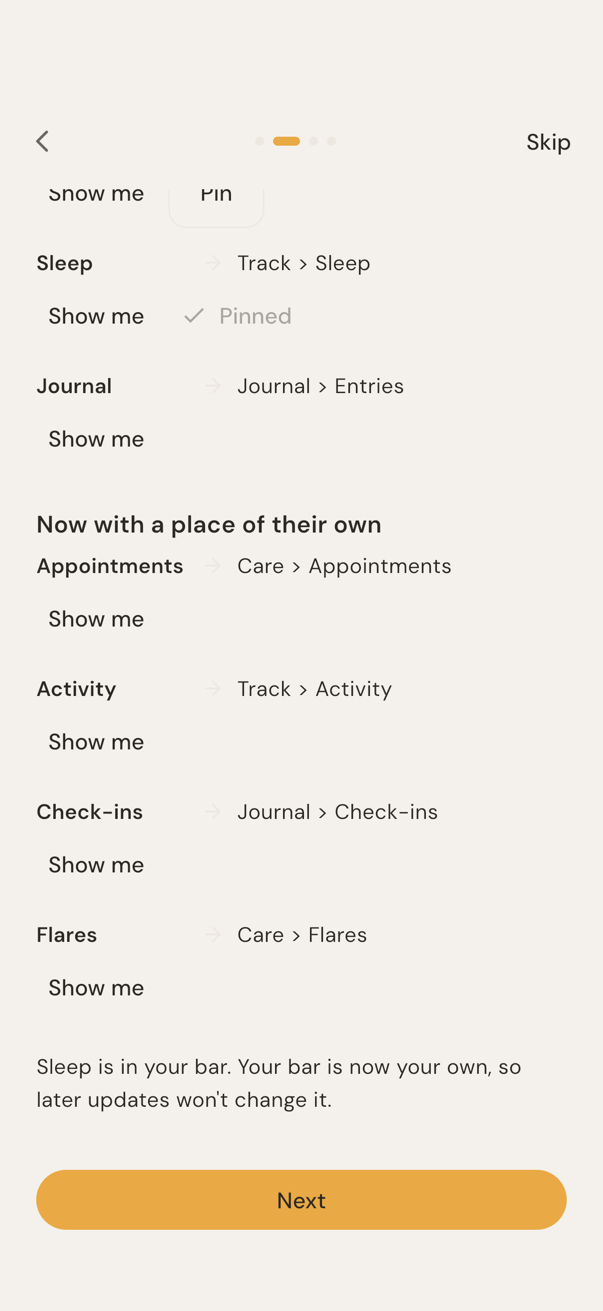
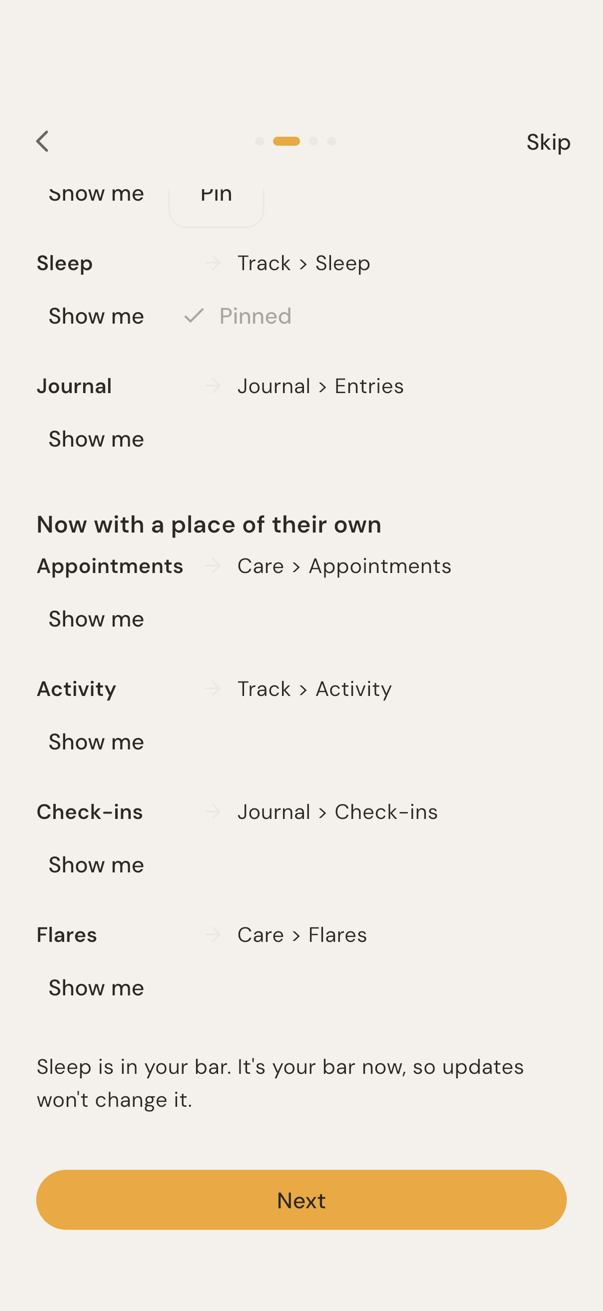
fix(guides): copy review (#145)
- 'Set it up myself' opens Settings scrolled to Your layout
  (/settings/layout), as it says.
- Moved rows are read without '>': 'Meds, now in Care, Medications tab'.
- Step 1 says 'Nothing has been removed', the card's words.
- Pin: 'Sleep is in your bar. It's your bar now, so updates won't change
  it.' Scenario verified.

Changed region(s): [[0.3881, 0.7933, 0.8657, 0.8543], [0.0597, 0.8238, 0.3582, 0.8543]]

diff --git a/lib/features/settings/screens/settings_screen.dart b/lib/features/settings/screens/settings_screen.dart
@@ -1,3 +1,4 @@
+import 'package:flutter/rendering.dart' show ScrollCacheExtent;
 import 'package:flutter/material.dart';
 import 'package:flutter_riverpod/flutter_riverpod.dart';
 import 'package:url_launcher/url_launcher.dart';
@@ -12,6 +13,37 @@ import 'package:health_flare/data/database/import_service.dart';
 import 'package:health_flare/features/settings/widgets/app_version_tile.dart';
 import 'package:health_flare/features/whats_new/widgets/whats_new_settings_tiles.dart';
 import 'package:health_flare/features/shell/widgets/hf_app_bar.dart';
+
+/// Scrolls [child] to the top of the screen once, after the first frame.
+class _ScrollIntoView extends StatefulWidget {
+  const _ScrollIntoView({required this.enabled, required this.child});
+
+  final bool enabled;
+  final Widget child;
+
+  @override
+  State<_ScrollIntoView> createState() => _ScrollIntoViewState();
+}
+
+class _ScrollIntoViewState extends State<_ScrollIntoView> {
+  @override
+  void initState() {
+    super.initState();
+    if (!widget.enabled) return;
+    WidgetsBinding.instance.addPostFrameCallback((_) {
+      if (!mounted) return;
+      Scrollable.ensureVisible(
+        context,
+        duration: MediaQuery.of(context).disableAnimations
+            ? Duration.zero
+            : const Duration(milliseconds: 300),
+      );
+    });
+  }
+
+  @override
+  Widget build(BuildContext context) => widget.child;
+}
 
 // ---------------------------------------------------------------------------
 // Local provider: reads schema version from AppSettings singleton.
@@ -30,7 +62,8 @@ final _schemaVersionProvider = FutureProvider<int>((ref) async {
 class SettingsScreen extends ConsumerWidget {
   const SettingsScreen({super.key, this.section});
 
-  /// Opens scrolled to a section: `layout` is Your layout. TODO(#145).
+  /// Opens scrolled to a section: `layout` is Your layout (the release
+  /// guide's "Set it up myself", #145).
   final String? section;
 
   @override
@@ -41,6 +74,11 @@ class SettingsScreen extends ConsumerWidget {
         showSettingsButton: false,
       ),
       body: ListView(
+        // Builds the whole (short) screen, so a section opened by name is
+        // there to scroll to.
+        scrollCacheExtent: section == null
+            ? null
+            : const ScrollCacheExtent.pixels(10000),
         children: [
           // ── Privacy (#100, #101): renders nothing on desktop and web ──────
           const PrivacySettingsSection(),
@@ -50,7 +88,10 @@ class SettingsScreen extends ConsumerWidget {
           _BackupTiles(),
 
           // ── Your layout (#142): only with Track and Care on ───────────────
-          const YourLayoutTiles(),
+          _ScrollIntoView(
+            enabled: section == 'layout',
+            child: const YourLayoutTiles(),
+          ),
 
           // ── Updates ───────────────────────────────────────────────────────
           const SettingsSectionHeader(label: 'Updates'),

diff --git a/lib/features/release_guides/screens/release_guide_screen.dart b/lib/features/release_guides/screens/release_guide_screen.dart
@@ -169,9 +169,15 @@ class _ReleaseGuideScreenState extends ConsumerState<ReleaseGuideScreen> {
   Future<void> _done() async {
     await _markSeen();
     if (!mounted) return;
-    final router = GoRouter.of(context);
-    _close();
-    if (_setUpAfter) unawaited(router.push(AppRoutes.settings));
+    if (!_setUpAfter) return _close();
+    // "Set it up myself": Settings, scrolled to Your layout.
+    if (context.canPop()) {
+      final router = GoRouter.of(context);
+      context.pop();
+      unawaited(router.push(AppRoutes.settingsLayout));
+    } else {
+      context.go(AppRoutes.settingsLayout);
+    }
   }
 
   /// "Show me": the guide closes and the screen opens, its bar item
@@ -289,11 +295,7 @@ class _ReleaseGuideScreenState extends ConsumerState<ReleaseGuideScreen> {
         if (slotFor(id) case final s?) (s.icon, s.label),
     ];
     return [
-      Text(
-        'Health Flare is now in four sections. Everything you had is '
-        'still here.',
-        style: tt.bodyLarge,
-      ),
+      Text(_guide.intro, style: tt.bodyLarge),
       const SizedBox(height: 16),
       BarDrawing(
         label: _change.customized ? 'Your bar' : 'The bar you had',
@@ -468,7 +470,7 @@ class _MovedRow extends StatelessWidget {
           );
     return Semantics(
       container: true,
-      label: '${row.was}, now ${row.now}',
+      label: spokenRow(row),
       child: Padding(
         padding: const EdgeInsets.symmetric(vertical: 6),
         child: Column(

diff --git a/test/widget/release_guide_test.dart b/test/widget/release_guide_test.dart
@@ -132,6 +132,11 @@ Widget _app({
               path: AppRoutes.settings,
               builder: (_, _) => const Scaffold(body: Text('Settings screen')),
             ),
+            GoRoute(
+              path: AppRoutes.settingsLayout,
+              builder: (_, _) =>
+                  const Scaffold(body: Text('Settings screen layout')),
+            ),
           ],
         ),
       ),
@@ -481,14 +486,25 @@ void main() {
     testWidgets('"Set it up myself" opens Settings after the guide', (
       tester,
     ) async {
-      await _openGuide(tester, step: 2);
+      // From the card, as in the app: the guide is pushed over the dashboard.
+      await tester.pumpWidget(_app());
+      await tester.pumpAndSettle();
+      await tester.tap(find.text('Show me'));
+      await tester.pumpAndSettle();
+      await _next(tester);
+      await _next(tester);
       await tester.tap(find.text('Set it up myself'));
       await tester.pumpAndSettle();
       await _next(tester);
       await tester.tap(find.widgetWithText(FilledButton, 'Done'));
       await tester.pumpAndSettle();
-      // Settings, opened at Your layout, as the option says.
+      // Settings, opened at Your layout, as the option says; Back returns
+      // to the dashboard, not the guide.
       expect(find.text('Settings screen layout'), findsOneWidget);
+      expect(
+        find.byType(ReleaseGuideScreen, skipOffstage: false),
+        findsNothing,
+      );
     });
   });
 

diff --git a/lib/features/release_guides/release_guide.dart b/lib/features/release_guides/release_guide.dart
@@ -63,7 +63,7 @@ const trackAndCareGuide = ReleaseGuide(
   id: 'track-and-care',
   cardTitle: 'The bottom bar has changed',
   cardBody: 'Meds, Meals and Sleep have moved. Nothing has been removed.',
-  intro: '', // TODO(#145): copy review
+  intro: 'Health Flare is now in four sections. Nothing has been removed.',
   steps: [
     'Four sections now',
     'Where things moved',
@@ -124,5 +124,13 @@ const releaseGuides = <String, ReleaseGuide>{
   'track-and-care': trackAndCareGuide,
 };
 
-/// A row as a screen reader says it. TODO(#145): stub.
-String spokenRow(GuideRow row) => throw UnimplementedError();
+/// A row as a screen reader says it. ">" is for the eye: read aloud it
+/// can come out as "greater than". "Care > Medications" is read "in Care,
+/// Medications tab"; a section alone, "in Track".
+String spokenRow(GuideRow row) {
+  final parts = row.now.split('>').map((p) => p.trim()).toList();
+  final where = parts.length == 1
+      ? parts.single
+      : '${parts.first}, ${parts.skip(1).join(', ')} tab';
+  return '${row.was}, now in $where';
+}

diff --git a/lib/core/router/app_router.dart b/lib/core/router/app_router.dart
@@ -117,6 +117,9 @@ abstract final class AppRoutes {
   static const activityNew = '/activity/new';
   static String activityEdit(int id) => '/activity/$id/edit';
   static const settings = '/settings';
+
+  /// Settings, opened scrolled to Your layout (#145).
+  static const settingsLayout = '/settings/layout';
   static const whatsNew = '/settings/whats-new';
   static const featuresInUse = '/settings/features-in-use';
   static const bottomBar = '/settings/bottom-bar';
@@ -191,6 +194,11 @@ final appRouterProvider = Provider<GoRouter>((ref) {
         path: AppRoutes.settings,
         name: 'settings',
         builder: (context, state) => const SettingsScreen(),
+      ),
+      GoRoute(
+        path: AppRoutes.settingsLayout,
+        name: 'settings-layout',
+        builder: (context, state) => const SettingsScreen(section: 'layout'),
       ),
       GoRoute(
         path: AppRoutes.whatsNew,

diff --git a/lib/features/release_guides/guide_rules.dart b/lib/features/release_guides/guide_rules.dart
@@ -91,8 +91,7 @@ List<String> movedPinNotes(
 /// After "Pin". Pinning makes the bar the person's own, so it stops
 /// following new defaults; this says so.
 String pinnedLine(String label) =>
-    '$label is in your bar. Your bar is now your own, so later updates '
-    "won't change it.";
+    "$label is in your bar. It's your bar now, so updates won't change it.";
 
 String pinFullLine(String label) =>
     'The bar holds five items. Remove one to add $label.';
